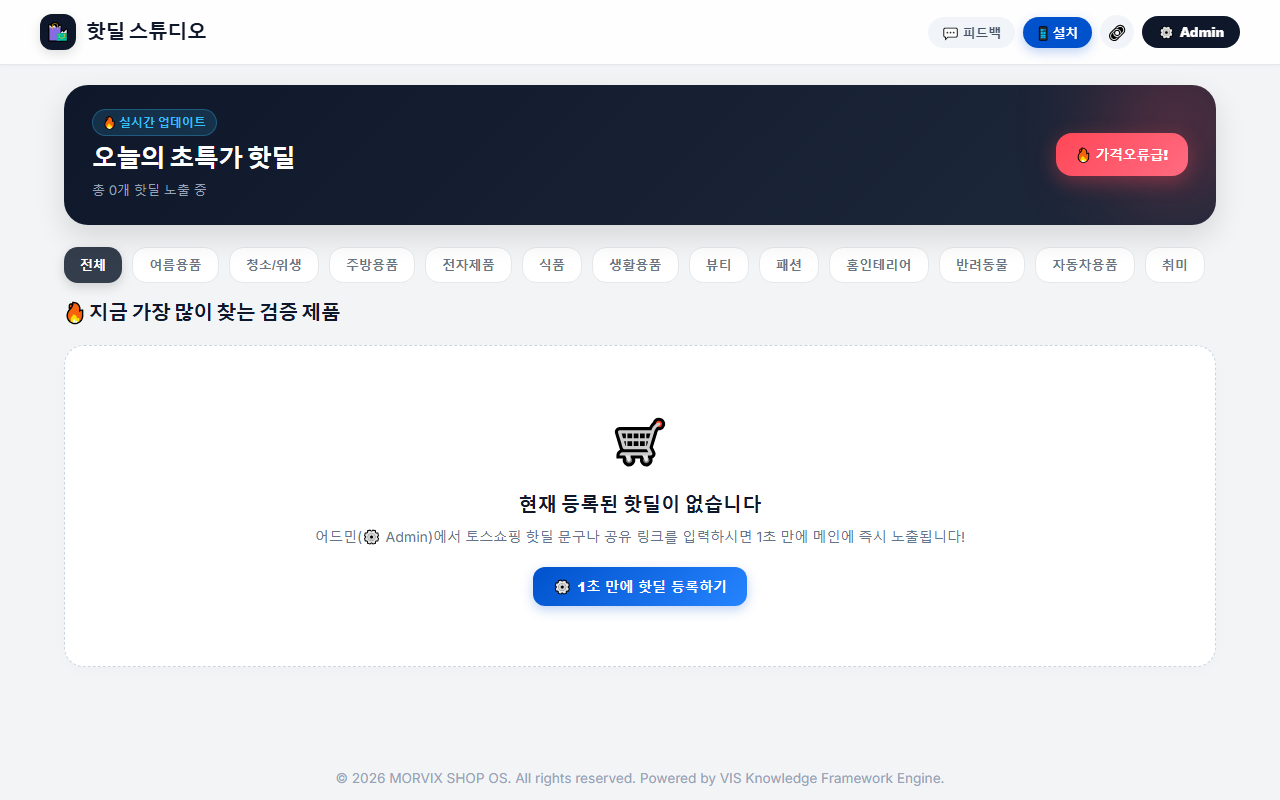
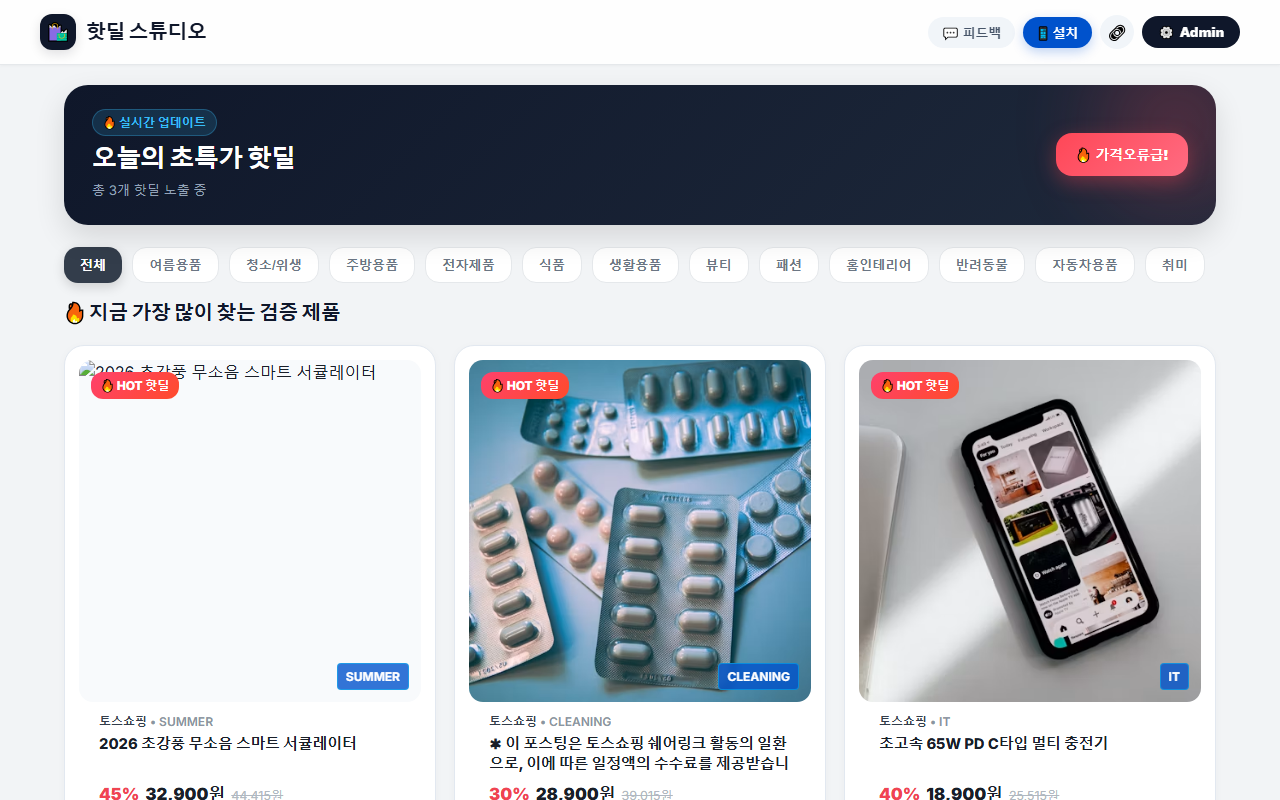
fix: Make morvix_shop_db.json authoritative source of truth in initShopOS and clear all legacy localstorage caches

diff --git a/app.js b/app.js
@@ -129,24 +129,8 @@ async function initShopOS() {
     if (res.ok) {
       const fetched = await res.json();
       if (fetched && Array.isArray(fetched.products)) {
-        // Merge fetched products with local storage products to prevent overwriting user-added products
-        const localProds = dbData.products || [];
-        const mergedMap = new Map();
-        
-        // Add fetched items first
-        fetched.products.forEach(p => mergedMap.set(p.slug || p.id, p));
-        // Add/overwrite with local user items (filtering out only legacy mock test items)
-        const legacyTestSlugs = ['fan001', 'blanket001', 'mosquito001', 'magsafe001'];
-        const legacyTestIds = ['PROD-010', 'PROD-009', 'PROD-008', 'PROD-007'];
-
-        localProds.forEach(p => {
-          const key = p.slug || p.id;
-          if (!legacyTestSlugs.includes(key) && !legacyTestIds.includes(p.id)) {
-            mergedMap.set(key, p);
-          }
-        });
-        
-        dbData.products = Array.from(mergedMap.values()).filter(p => !legacyTestSlugs.includes(p.slug) && !legacyTestIds.includes(p.id));
+        // Use fetched server products directly as authoritative source of truth
+        dbData.products = fetched.products;
         saveMasterDbToStorage();
       }
     }
